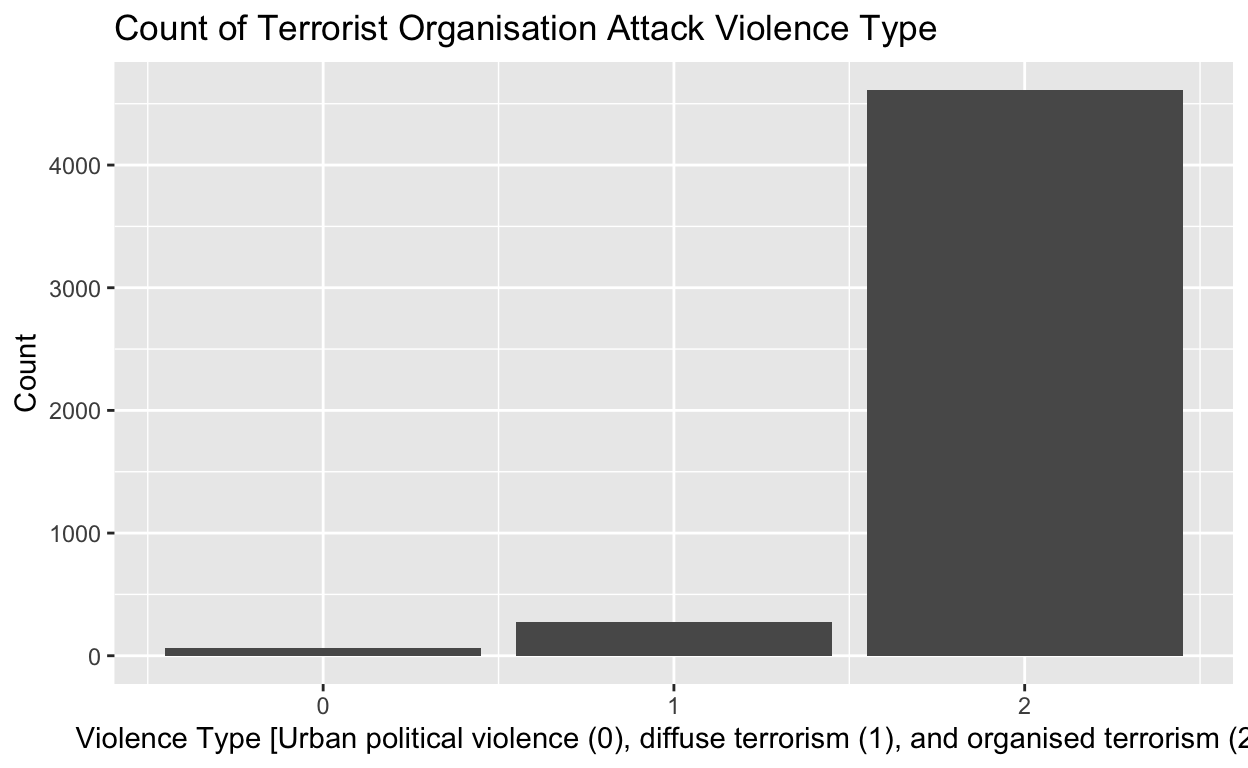
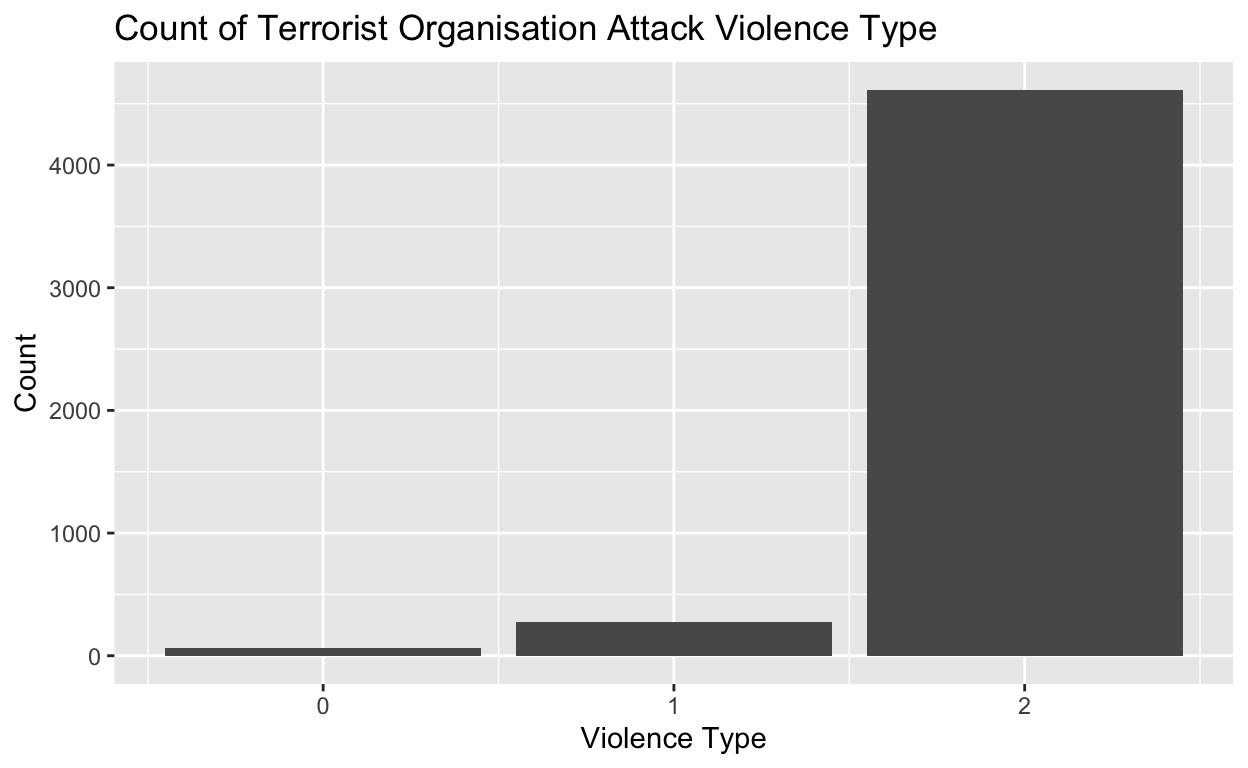
knit

Changed region(s): [[0.0625, 0.9375, 1.0, 1.0]]

diff --git a/index.html b/index.html
@@ -115,7 +115,7 @@ code span.wa { color: #5e5e5e; font-style: italic; } /* Warning */
   <!--/radix_placeholder_rmarkdown_metadata-->
   
   <script type="text/json" id="radix-resource-manifest">
-  {"type":"character","attributes":{},"value":["dataverse_files/DTV 1-2009_1.sav","dataverse_files/DTV%20Codebook_1.pdf","index_files/anchor-4.2.2/anchor.min.js","index_files/bowser-1.9.3/bowser.min.js","index_files/distill-2.2.21/template.v2.js","index_files/figure-html5/unnamed-chunk-1-1.png","index_files/figure-html5/unnamed-chunk-1-2.png","index_files/figure-html5/unnamed-chunk-2-1.png","index_files/figure-html5/unnamed-chunk-2-2.png","index_files/figure-html5/unnamed-chunk-2-3.png","index_files/header-attrs-2.17/header-attrs.js","index_files/header-attrs-2.25/header-attrs.js","index_files/jquery-3.6.0/jquery-3.6.0.js","index_files/jquery-3.6.0/jquery-3.6.0.min.js","index_files/jquery-3.6.0/jquery-3.6.0.min.map","index_files/popper-2.6.0/popper.min.js","index_files/tippy-6.2.7/tippy-bundle.umd.min.js","index_files/tippy-6.2.7/tippy-light-border.css","index_files/tippy-6.2.7/tippy.css","index_files/tippy-6.2.7/tippy.umd.min.js","index_files/webcomponents-2.0.0/webcomponents.js","Screenshot 2023-11-03 at 23.53.21.png","Screenshot 2023-11-03 at 23.53.30.png"]}
+  {"type":"character","attributes":{},"value":["dataverse_files/DTV 1-2009_1.sav","dataverse_files/DTV%20Codebook_1.pdf","index_files/anchor-4.2.2/anchor.min.js","index_files/bowser-1.9.3/bowser.min.js","index_files/distill-2.2.21/template.v2.js","index_files/figure-html5/unnamed-chunk-1-1.png","index_files/figure-html5/unnamed-chunk-1-2.png","index_files/figure-html5/unnamed-chunk-2-1.png","index_files/figure-html5/unnamed-chunk-2-2.png","index_files/figure-html5/unnamed-chunk-2-3.png","index_files/header-attrs-2.17/header-attrs.js","index_files/header-attrs-2.25/header-attrs.js","index_files/jquery-3.6.0/jquery-3.6.0.js","index_files/jquery-3.6.0/jquery-3.6.0.min.js","index_files/jquery-3.6.0/jquery-3.6.0.min.map","index_files/kePrint-0.0.1/kePrint.js","index_files/lightable-0.0.1/lightable.css","index_files/popper-2.6.0/popper.min.js","index_files/tippy-6.2.7/tippy-bundle.umd.min.js","index_files/tippy-6.2.7/tippy-light-border.css","index_files/tippy-6.2.7/tippy.css","index_files/tippy-6.2.7/tippy.umd.min.js","index_files/webcomponents-2.0.0/webcomponents.js","Screenshot 2023-11-03 at 23.53.21.png","Screenshot 2023-11-03 at 23.53.30.png"]}
   </script>
   <!--radix_placeholder_navigation_in_header-->
   <!--/radix_placeholder_navigation_in_header-->
@@ -1569,7 +1569,7 @@ code span.wa { color: #5e5e5e; font-style: italic; } /* Warning */
 <span><span class='va'>DTV_1_2009_1</span> <span class='op'>|&gt;</span></span>
 <span>  <span class='fu'><a href='https://ggplot2.tidyverse.org/reference/ggplot.html'>ggplot</a></span><span class='op'>(</span><span class='fu'><a href='https://ggplot2.tidyverse.org/reference/aes.html'>aes</a></span><span class='op'>(</span>x <span class='op'>=</span> <span class='va'>violencetype</span><span class='op'>)</span><span class='op'>)</span> <span class='op'>+</span></span>
 <span>  <span class='fu'><a href='https://ggplot2.tidyverse.org/reference/geom_bar.html'>geom_bar</a></span><span class='op'>(</span><span class='op'>)</span> <span class='op'>+</span></span>
-<span>  <span class='fu'><a href='https://ggplot2.tidyverse.org/reference/labs.html'>labs</a></span><span class='op'>(</span>title <span class='op'>=</span> <span class='st'>"Count of Terrorist Organisation Attack Violence Type "</span>, x <span class='op'>=</span> <span class='st'>"Violence Type [Urban political violence (0), diffuse terrorism (1), and organised terrorism (2)]"</span>, y <span class='op'>=</span> <span class='st'>"Count"</span><span class='op'>)</span></span></code></pre>
+<span>  <span class='fu'><a href='https://ggplot2.tidyverse.org/reference/labs.html'>labs</a></span><span class='op'>(</span>title <span class='op'>=</span> <span class='st'>"Count of Terrorist Organisation Attack Violence Type "</span>, x <span class='op'>=</span> <span class='st'>"Violence Type"</span>, y <span class='op'>=</span> <span class='st'>"Count"</span><span class='op'>)</span></span></code></pre>
 </div>
 <img src="index_files/figure-html5/unnamed-chunk-1-1.png" width="624" />
 <div class="sourceCode">
